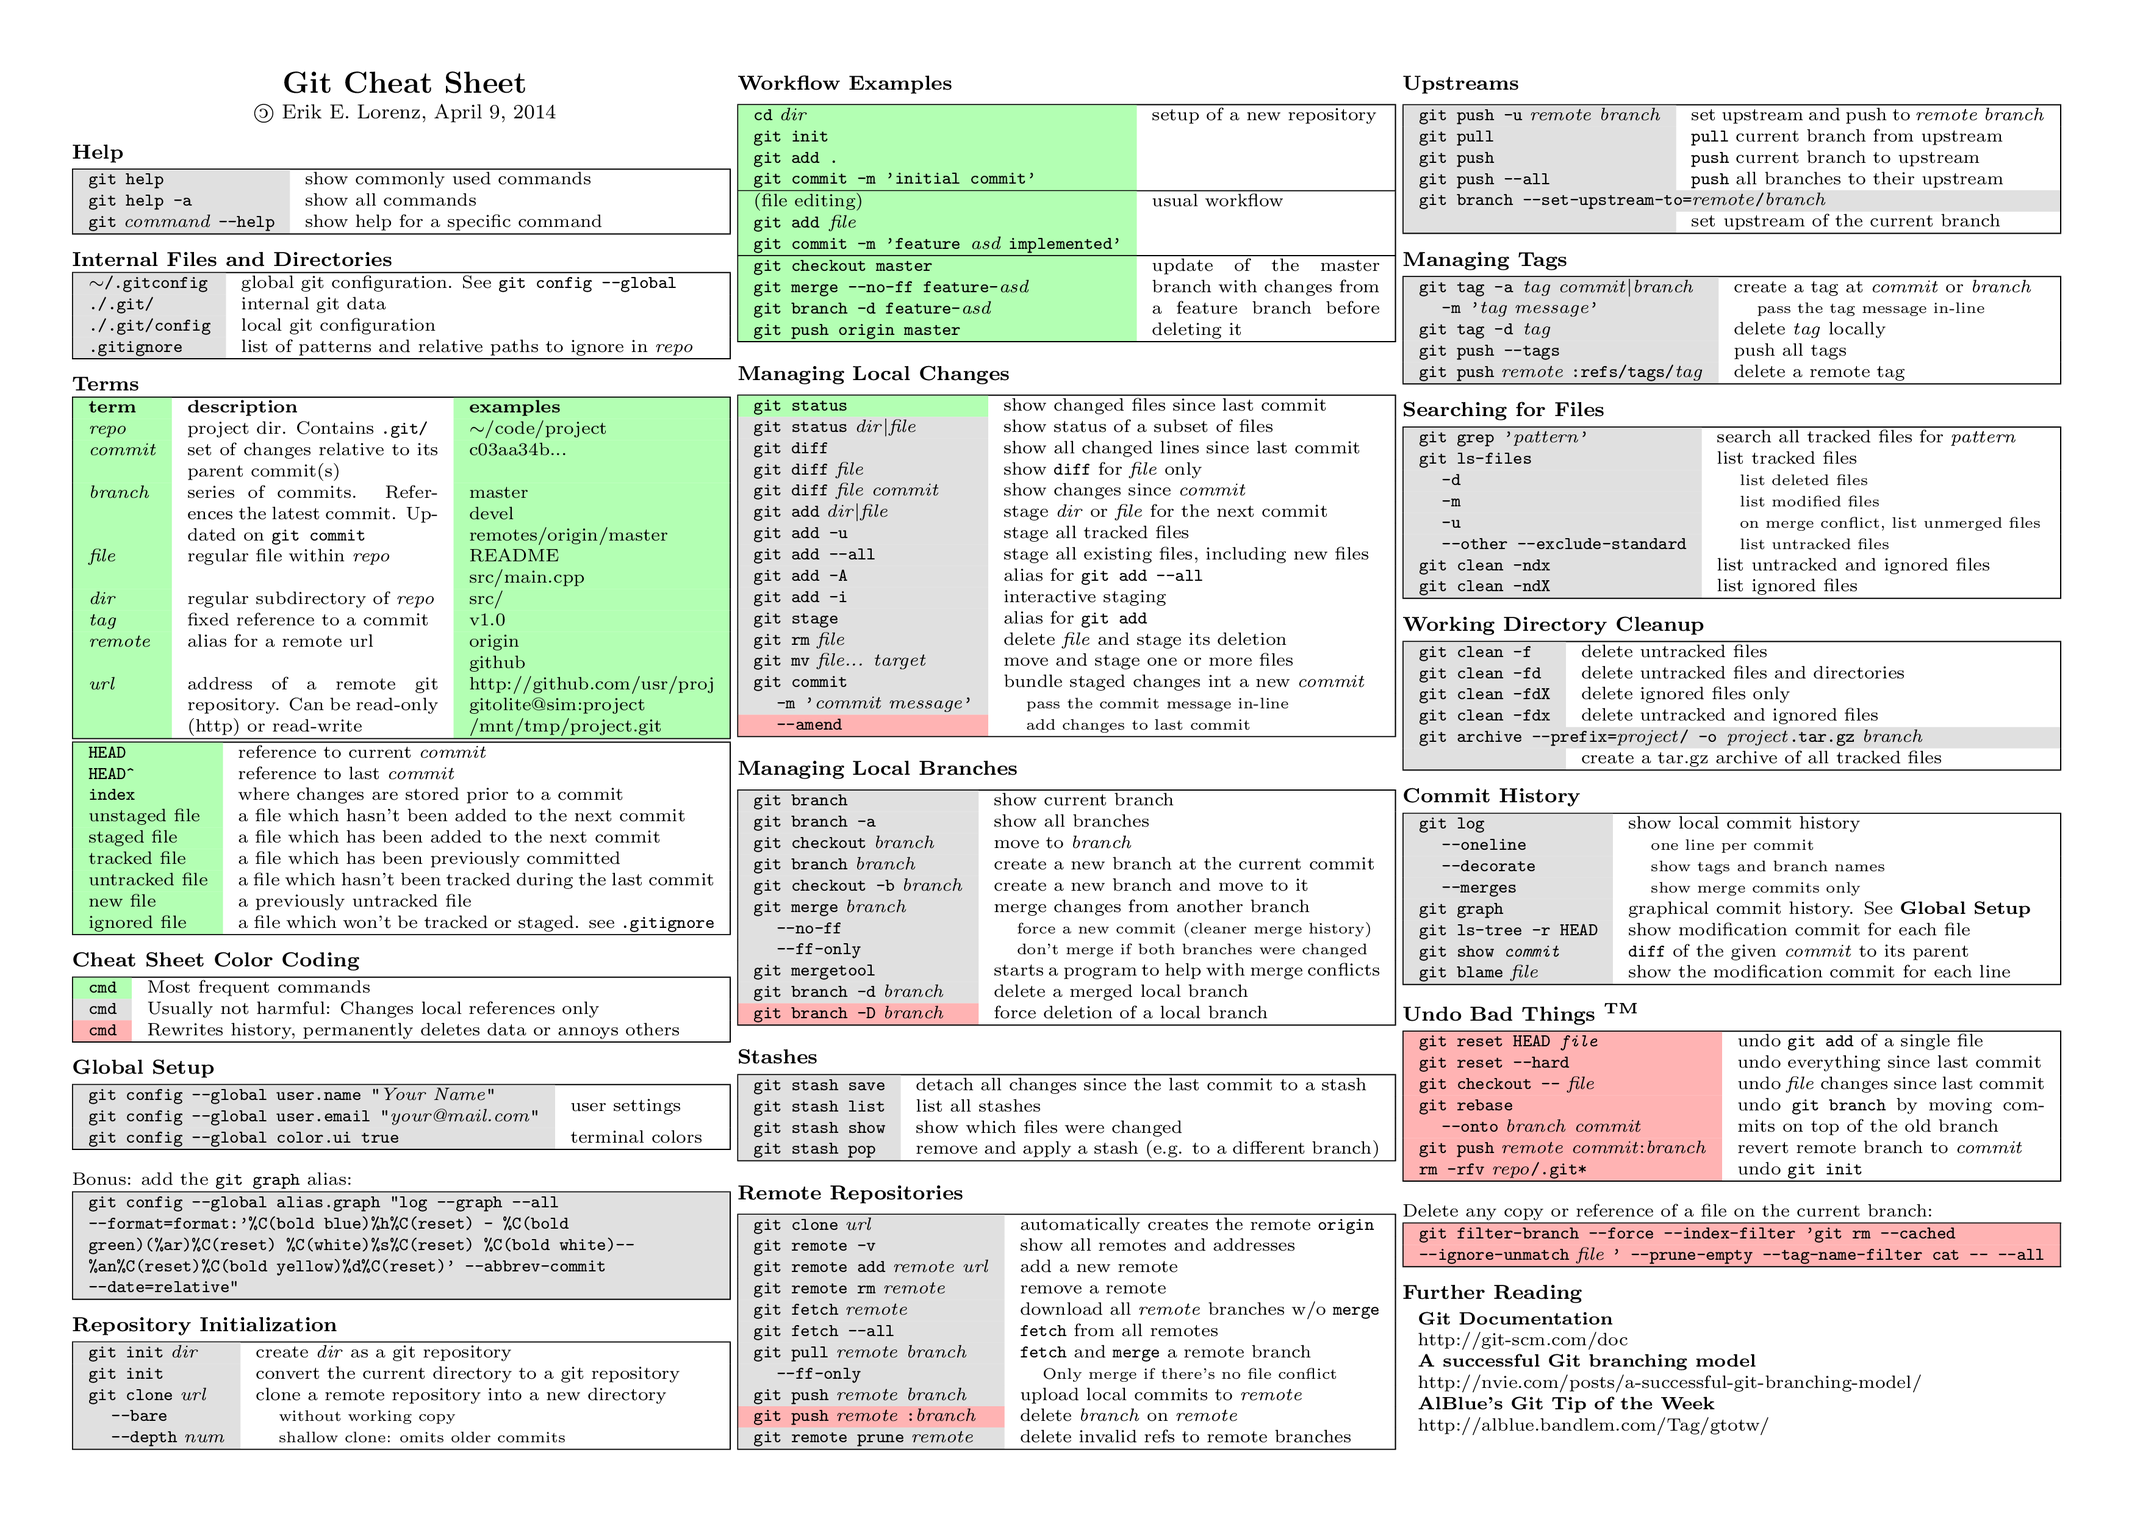
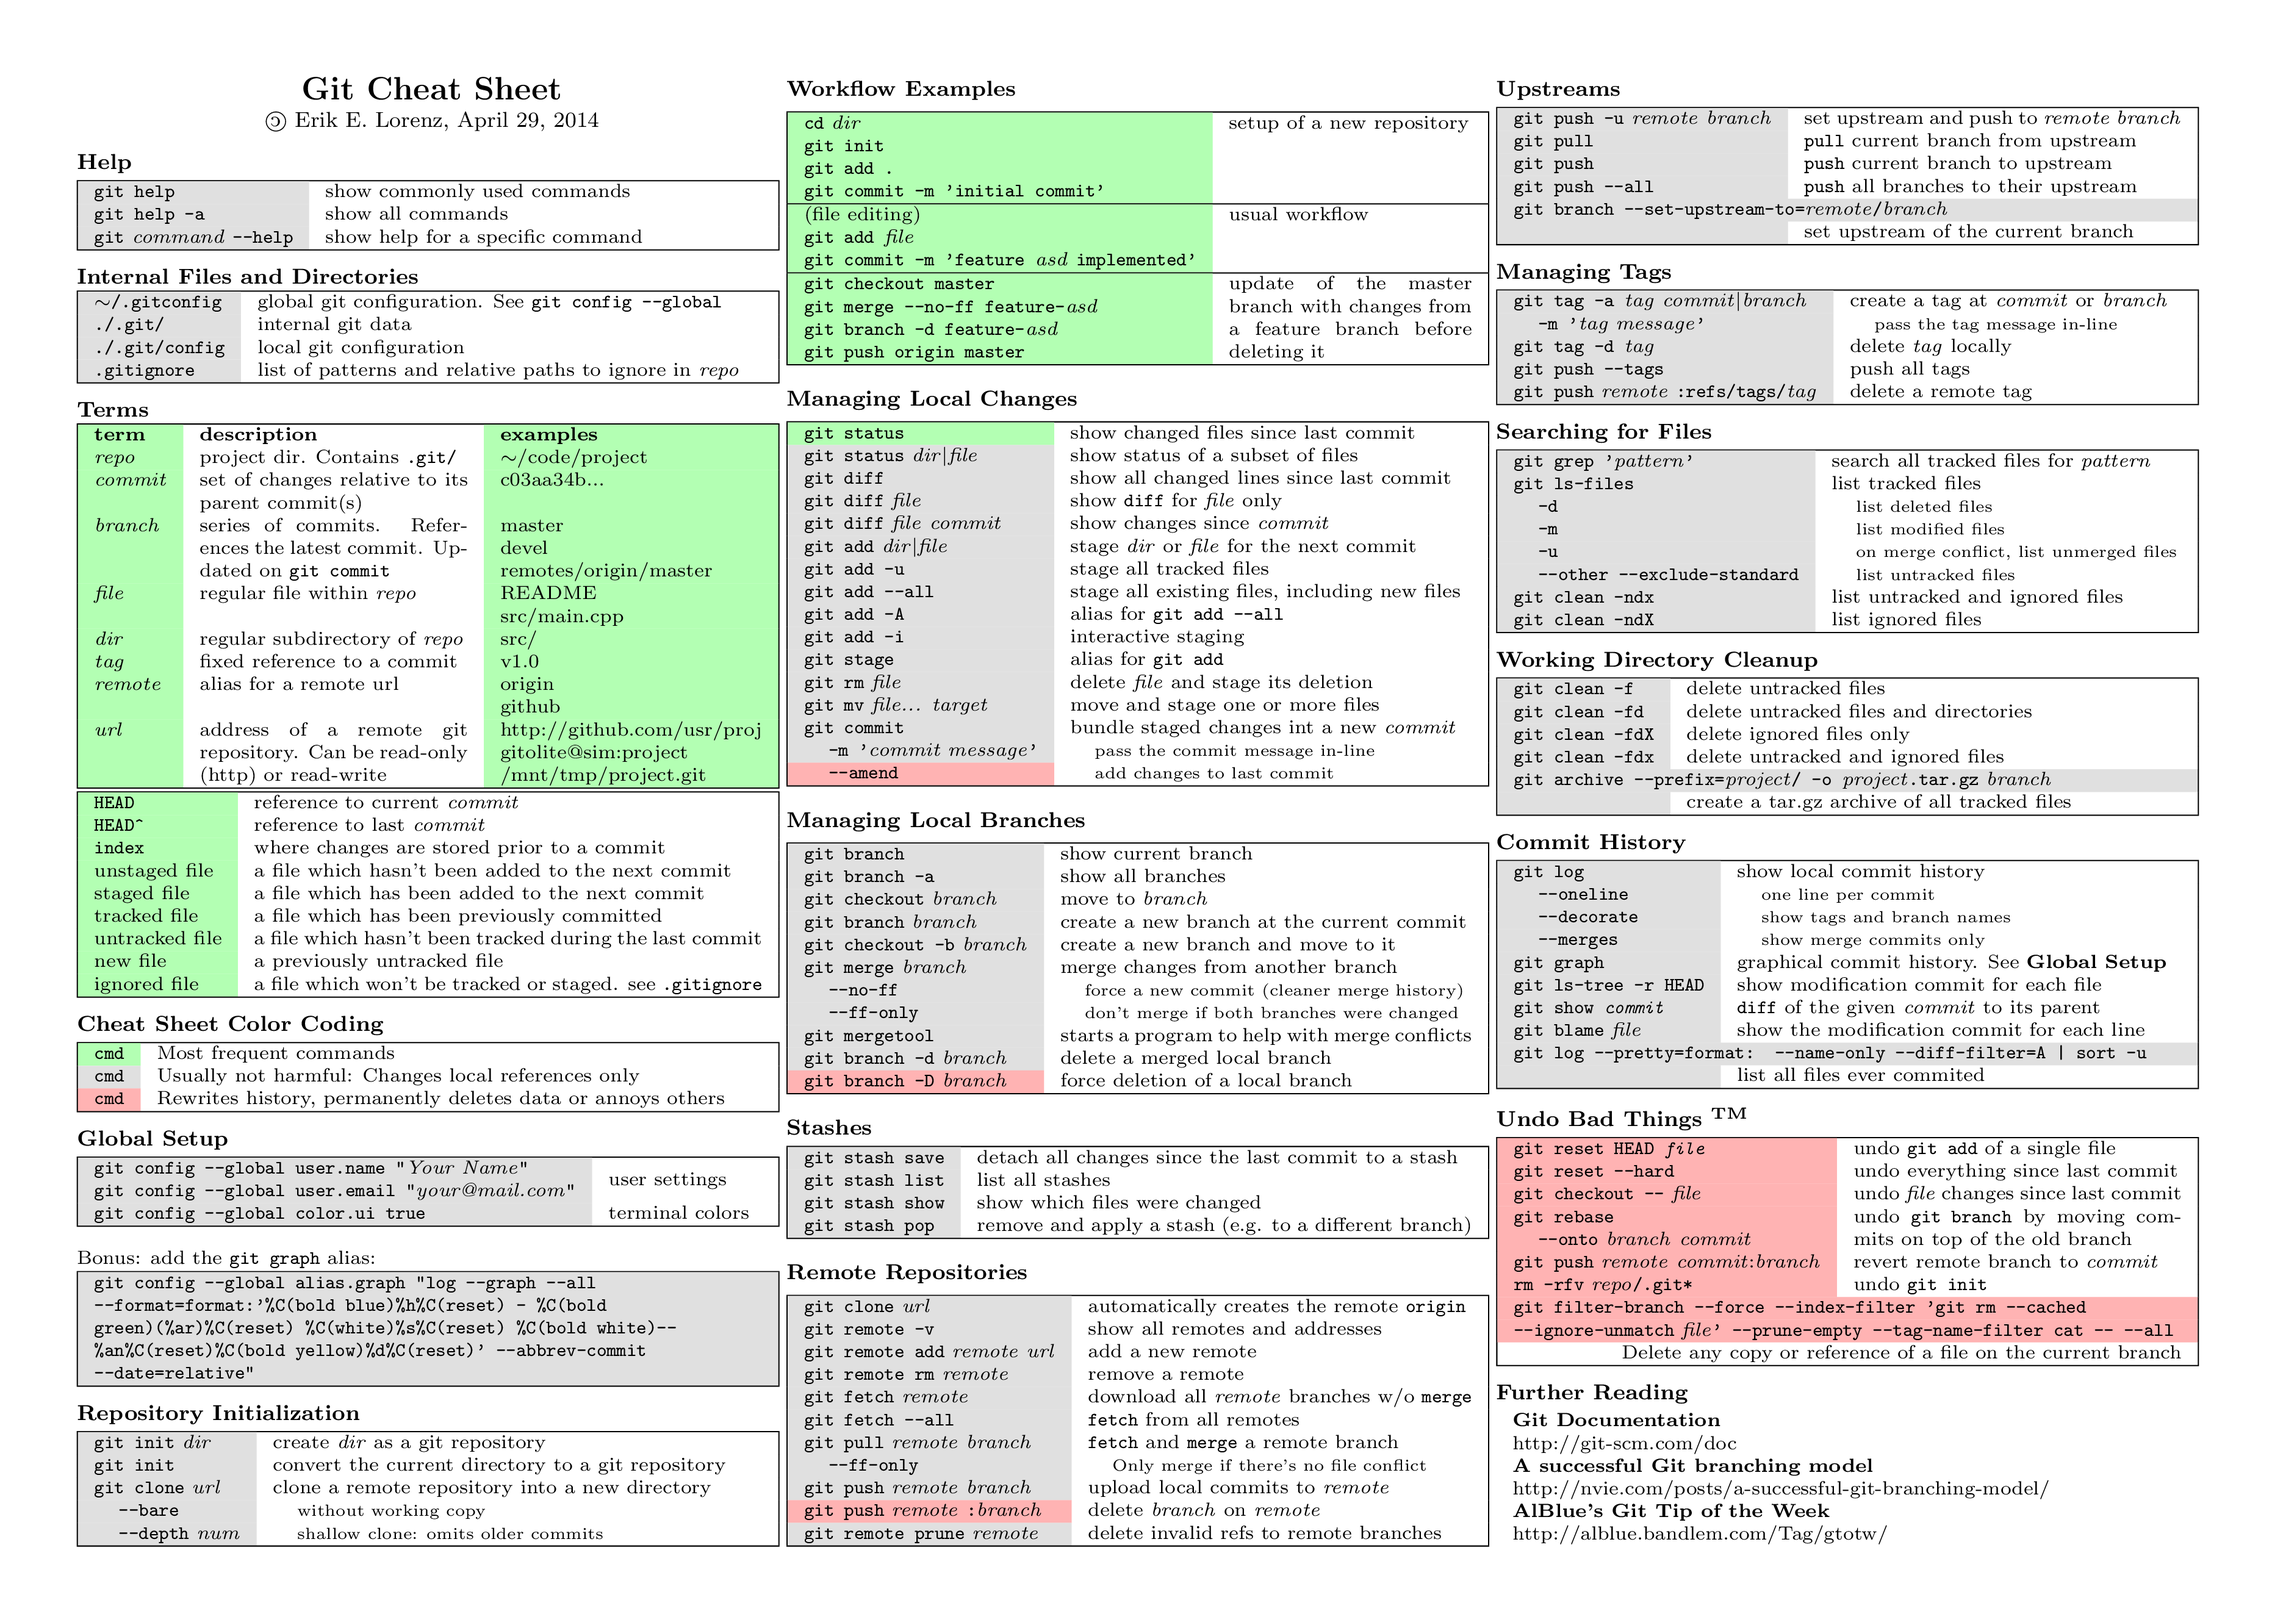
git: "every file ever" added; small reformat

diff --git a/gitcheatsheet.tex b/gitcheatsheet.tex
@@ -168,10 +168,6 @@ Bonus: add the \code{git graph} alias:
 
 \section{Upstreams}
 
-%%%%%%% DIRTY HACK AHEAD %%%%%%%
-\vspace{0.57ex}
-%%%%%%% DIRTY HACK END %%%%%%%
-
 \mytable{gX}{
 	\code{git push -u} \remote{} \branch{}	&	set upstream and push to \remote{} \branch{}	\\
 	\code{git pull}	&	\code{pull} current branch from upstream	\\
@@ -222,6 +218,8 @@ Bonus: add the \code{git graph} alias:
 	\code{git ls-tree -r HEAD}	&	show modification commit for each file	\\
 	\code{git show \commit{}}	&	\code{diff} of the given \commit{} to its parent	\\
 	\code{git blame} \file{}	&	show the modification commit for each line \\
+	\multicolumn{2}{|g|}{\code{git log --pretty=format: --name-only --diff-filter=A | sort -u}}	\\
+  &	list all files ever commited	\\
 }
 
 \section{Undo Bad Things \texttrademark}
@@ -232,18 +230,10 @@ Bonus: add the \code{git graph} alias:
 	\attention{\sct{\code{git rebase} \\ \myopt{--onto} \branch{} \commit{}}}	&	undo \code{git branch} by moving commits on top of the old branch	\\
 	\attention{\code{git push} \remote{} \commit{}:\branch{}}	&	revert remote branch to \commit{}	\\
 	\attention{\code{rm -rfv} \repo{}\code{/.git*}}	&	undo \code{git init}	\\
+	\multicolumn{2}{|a|}{\code{git filter-branch --force --index-filter 'git rm --cached}}	\\
+	\multicolumn{2}{|a|}{\code{--ignore-unmatch} \file{}\code{' --prune-empty --tag-name-filter cat -- --all}}	\\
+	\multicolumn{2}{|r|}{Delete any copy or reference of a file on the current branch}	\\
 }
-\\
-\vspace{1em}
-Delete any copy or reference of a file on the current branch:
-\mytable{a}{
-	\code{git filter-branch --force --index-filter 'git rm --cached}
-	\\
-	\code{--ignore-unmatch} \file{} \code{' --prune-empty --tag-name-filter cat -- --all}
-	\\
-}
-
-
 
 \section{Further Reading}
 
